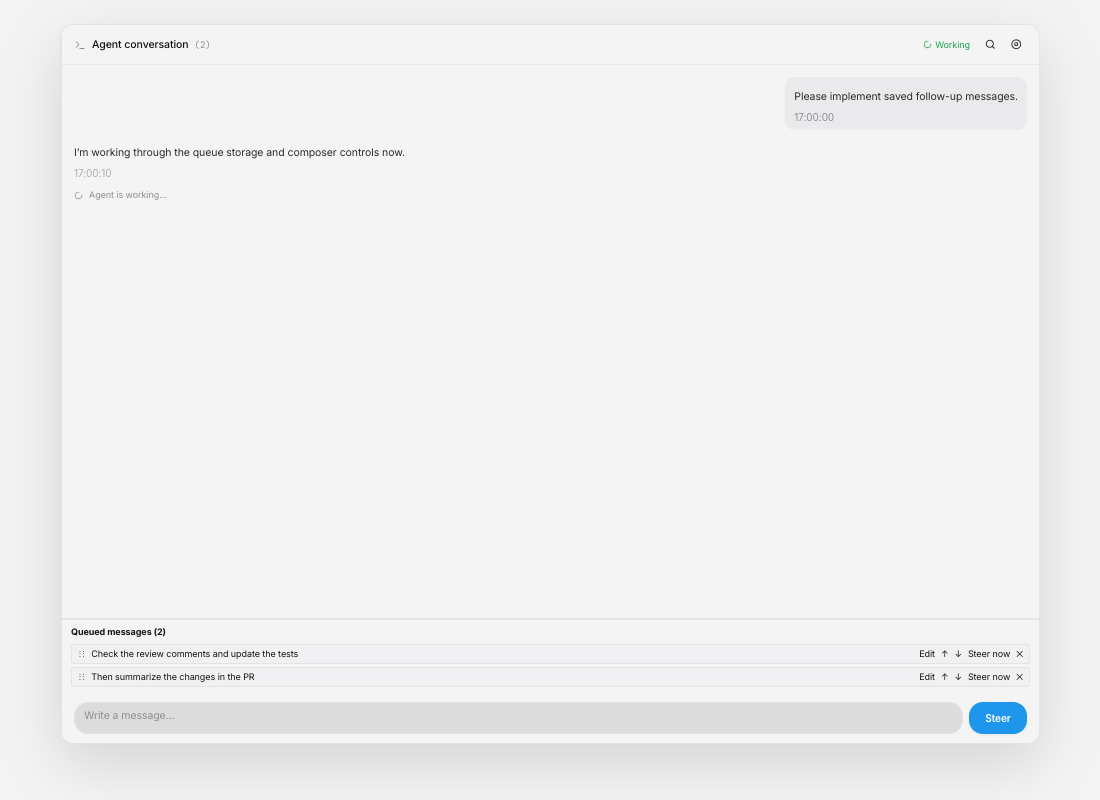
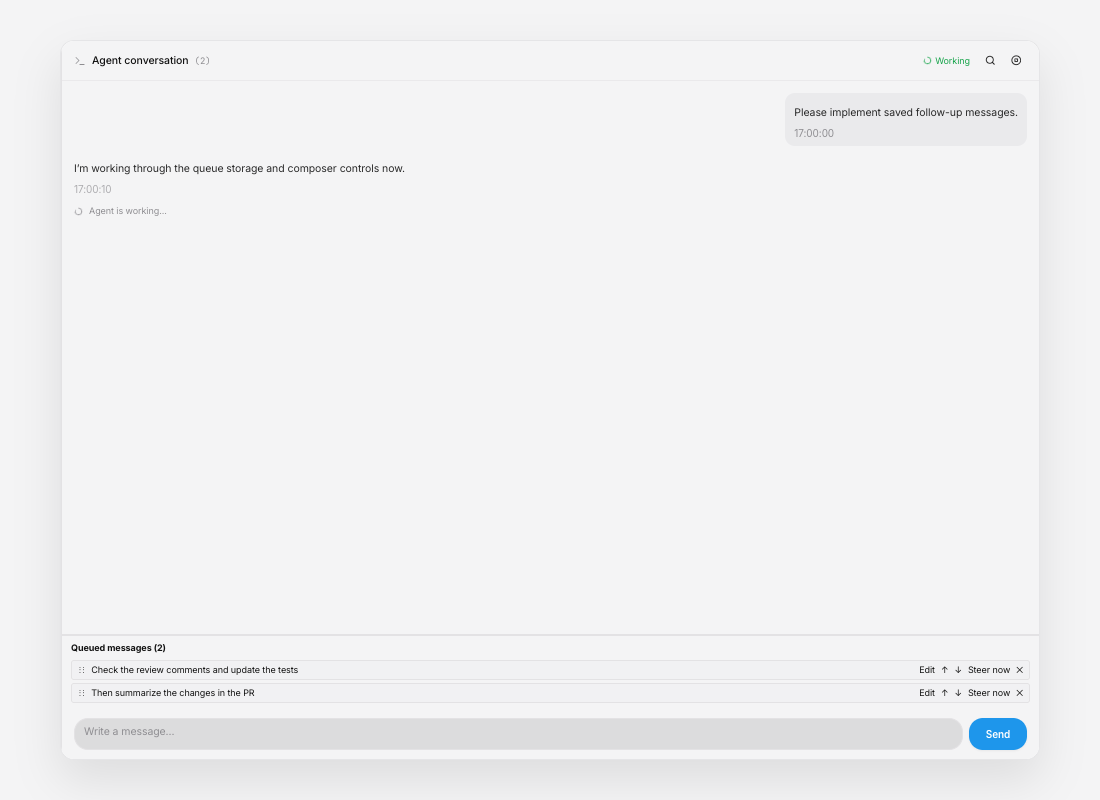
Make send now the default follow-up action

diff --git a/src/renderer/src/components/agents/AgentTranscriptPanel.tsx b/src/renderer/src/components/agents/AgentTranscriptPanel.tsx
@@ -15,7 +15,7 @@ import { SpeakMessageButton } from '@/components/voice/SpeakMessageButton'
 import { MASTERMIND_COMPOSER_KEY, registerComposer } from '@/lib/voice-dictation-target'
 import { dispatchShortcutFeedback } from '@/lib/keyboard-shortcuts'
 import { MessageQueueList } from './MessageQueueList'
-import { resolveFollowupAction, type MessageQueueSnapshot } from '@shared/message-queue'
+import { DEFAULT_FOLLOWUP_ACTION, resolveFollowupAction, type MessageQueueSnapshot } from '@shared/message-queue'
 
 const EMPTY_ARTIFACTS: Artifact[] = []
 
@@ -831,13 +831,13 @@ export function AgentTranscriptPanel({
   const [activeSearchResult, setActiveSearchResult] = useState(0)
   const [pendingAttachments, setPendingAttachments] = useState<ComposerAttachment[]>([])
   const [messageQueue, setMessageQueue] = useState<MessageQueueSnapshot>({ messages: [], paused: false })
-  const [followupDefault, setFollowupDefault] = useState<'steer' | 'queue'>('queue')
+  const [followupDefault, setFollowupDefault] = useState<'steer' | 'queue'>(DEFAULT_FOLLOWUP_ACTION)
   const [canSteer, setCanSteer] = useState(false)
   useEffect(() => {
     if (!taskId || !window.electronAPI?.messageQueue) return
     let active = true
     void messageQueueApi.list(taskId).then((value) => { if (active) setMessageQueue(value) })
-    void window.electronAPI.settings.get('message_queue_default').then((value) => { if (active) setFollowupDefault(value === 'steer' ? 'steer' : 'queue') })
+    void window.electronAPI.settings.get('message_queue_default').then((value) => { if (active) setFollowupDefault(value === 'queue' ? 'queue' : DEFAULT_FOLLOWUP_ACTION) })
     if (agentId) void window.electronAPI.agents.get(agentId).then((agent) => {
       if (active) setCanSteer(['codex', 'pi'].includes(agent?.config?.coding_agent || ''))
     })
@@ -1139,6 +1139,13 @@ export function AgentTranscriptPanel({
       default: return 'Idle'
     }
   }
+
+  const busySendLabel = canSteer && followupDefault === 'steer' ? 'Send' : 'Queue'
+  const busySendTitle = !canSteer
+    ? 'Queue message for after this turn'
+    : followupDefault === 'steer'
+      ? 'Send now · Cmd/Ctrl+Enter to queue'
+      : 'Queue for later · Cmd/Ctrl+Enter to send now'
 
   const handleSend = (alternate = false) => {
     const value = inputRef.current?.value.trim()
@@ -1512,8 +1519,8 @@ export function AgentTranscriptPanel({
                 <Paperclip className="h-4 w-4" />
               </Button>
             )}
-              <Button variant="default" size="icon" onClick={() => handleSend()} className={`h-[32px] shrink-0 rounded-lg ${status === SessionStatus.WORKING && !activeQuestionId ? 'min-w-[58px] px-2' : 'w-[32px]'}`} aria-label={status === SessionStatus.WORKING && !activeQuestionId ? (canSteer ? followupDefault : 'Queue') + ' message' : 'Send message'} title={status === SessionStatus.WORKING && !activeQuestionId ? (canSteer ? followupDefault : 'queue') + ' · Cmd/Ctrl+Enter for alternate' : 'Send message'}>
-                {status === SessionStatus.WORKING && !activeQuestionId ? <span className="text-[10px] font-semibold">{canSteer ? (followupDefault === 'steer' ? 'Steer' : 'Queue') : 'Queue'}</span> : <Send className="h-4 w-4" />}
+              <Button variant="default" size="icon" onClick={() => handleSend()} className={`h-[32px] shrink-0 rounded-lg ${status === SessionStatus.WORKING && !activeQuestionId ? 'min-w-[58px] px-2' : 'w-[32px]'}`} aria-label={status === SessionStatus.WORKING && !activeQuestionId ? (busySendLabel === 'Send' ? 'Send message now' : 'Queue message for later') : 'Send message'} title={status === SessionStatus.WORKING && !activeQuestionId ? busySendTitle : 'Send message'}>
+                {status === SessionStatus.WORKING && !activeQuestionId ? <span className="text-[10px] font-semibold">{busySendLabel}</span> : <Send className="h-4 w-4" />}
               </Button>
             </div>
           </div>

diff --git a/src/renderer/src/components/settings/tabs/GeneralSettings.tsx b/src/renderer/src/components/settings/tabs/GeneralSettings.tsx
@@ -11,6 +11,7 @@ import { OnboardingWizard } from '@/components/onboarding/OnboardingWizard'
 import { settingsApi, mobileApi, updaterApi, worktreeApi, onWorkspaceCleanupProgress } from '@/lib/ipc-client'
 import { MASTERMIND_PREWARM_SETTING } from '@/components/orchestrator/OrchestratorPanel'
 import { PushNotificationSettings } from './PushNotificationSettings'
+import { DEFAULT_FOLLOWUP_ACTION } from '@shared/message-queue'
 
 /** Human-readable summary of a cleanup run, or null when there is nothing to report. */
 function describeCleanupOutcome(cleaned: number | undefined, nodeModulesCleaned: number | undefined): string | null {
@@ -25,8 +26,8 @@ function describeCleanupOutcome(cleaned: number | undefined, nodeModulesCleaned:
 }
 
 export function GeneralSettings() {
-  const [messageQueueDefault, setMessageQueueDefault] = useState<'steer' | 'queue'>('queue')
-  useEffect(() => { void settingsApi.get('message_queue_default').then((value) => setMessageQueueDefault(value === 'steer' ? 'steer' : 'queue')) }, [])
+  const [messageQueueDefault, setMessageQueueDefault] = useState<'steer' | 'queue'>(DEFAULT_FOLLOWUP_ACTION)
+  useEffect(() => { void settingsApi.get('message_queue_default').then((value) => setMessageQueueDefault(value === 'queue' ? 'queue' : DEFAULT_FOLLOWUP_ACTION)) }, [])
   const [setupDialogOpen, setSetupDialogOpen] = useState(false)
   const [launchAtStartup, setLaunchAtStartup] = useState(false)
   const [notificationsEnabled, setNotificationsEnabled] = useState(false)
@@ -293,7 +294,7 @@ const [currentVersion, setCurrentVersion] = useState<string | null>(null)
             const action = event.target.value as 'steer' | 'queue'
             setMessageQueueDefault(action)
             void settingsApi.set('message_queue_default', action)
-          }}><option value="queue">Queue</option><option value="steer">Steer</option></select>
+          }}><option value="steer">Send now</option><option value="queue">Queue for later</option></select>
         </div>
         <div className="flex items-center justify-between py-2 border-b border-border">
           <div className="space-y-0.5">

diff --git a/src/mobile/pages/ConversationPage.tsx b/src/mobile/pages/ConversationPage.tsx
@@ -10,7 +10,7 @@ import { ArtifactCard } from '../components/ArtifactCard'
 import { ChatInput, type ChatInputAttachment } from '../components/ChatInput'
 import { MessageQueueList } from '@/components/agents/MessageQueueList'
 import { onEvent } from '../api/websocket'
-import { resolveFollowupAction, type MessageQueueSnapshot } from '@shared/message-queue'
+import { DEFAULT_FOLLOWUP_ACTION, resolveFollowupAction, type MessageQueueSnapshot } from '@shared/message-queue'
 import { useArtifactStore } from '../stores/artifact-store'
 import { cn } from '../lib/utils'
 import { captureAnalyticsEvent } from '@/lib/analytics'
@@ -136,7 +136,7 @@ export function ConversationPage({ taskId, onNavigate }: { taskId: string; onNav
   const [showAttachmentPicker, setShowAttachmentPicker] = useState(false)
   const [messageAttachments, setMessageAttachments] = useState<ChatInputAttachment[]>([])
   const [messageQueue, setMessageQueue] = useState<MessageQueueSnapshot>({ messages: [], paused: false })
-  const [followupDefault, setFollowupDefault] = useState<'steer' | 'queue'>('queue')
+  const [followupDefault, setFollowupDefault] = useState<'steer' | 'queue'>(DEFAULT_FOLLOWUP_ACTION)
   const [canSteer, setCanSteer] = useState(false)
   useEffect(() => {
     let active = true
@@ -857,7 +857,7 @@ export function ConversationPage({ taskId, onNavigate }: { taskId: string; onNav
         {isWorking && !isQuestion && !canSteer && <p className="px-3 text-xs text-muted-foreground">This agent cannot steer a running turn. Messages will be queued.</p>}
         <ChatInput
           onSend={handleSend}
-          sendLabel={isWorking && !isQuestion ? (canSteer ? (followupDefault === 'steer' ? 'Steer' : 'Queue') : 'Queue') : undefined}
+          sendLabel={isWorking && !isQuestion ? (canSteer ? (followupDefault === 'steer' ? 'Send' : 'Queue') : 'Queue') : undefined}
           disabled={!canSendInput}
           placeholder={placeholder}
           attachments={messageAttachments}

diff --git a/src/mobile/pages/SettingsPage.tsx b/src/mobile/pages/SettingsPage.tsx
@@ -3,6 +3,7 @@ import { api } from '../api/client'
 import type { Route } from '../App'
 import { SubscriptionUsageSection } from '../components/SubscriptionUsageSection'
 import { PushSettings } from '../components/PushSettings'
+import { DEFAULT_FOLLOWUP_ACTION } from '@shared/message-queue'
 
 interface TaskSource {
   id: string
@@ -26,7 +27,7 @@ interface SettingsPageProps {
 }
 
 export function SettingsPage({ onNavigate }: SettingsPageProps) {
-  const [messageQueueDefault, setMessageQueueDefault] = useState<'steer' | 'queue'>('queue')
+  const [messageQueueDefault, setMessageQueueDefault] = useState<'steer' | 'queue'>(DEFAULT_FOLLOWUP_ACTION)
   useEffect(() => { void api.messageQueue.default().then((value) => setMessageQueueDefault(value.action)) }, [])
   const [sources, setSources] = useState<TaskSource[]>([])
   const [plugins, setPlugins] = useState<PluginMeta[]>([])
@@ -118,7 +119,7 @@ export function SettingsPage({ onNavigate }: SettingsPageProps) {
             const action = event.target.value as 'steer' | 'queue'
             setMessageQueueDefault(action)
             void api.messageQueue.setDefault(action)
-          }}><option value="queue">Queue</option><option value="steer">Steer</option></select>
+          }}><option value="steer">Send now</option><option value="queue">Queue for later</option></select>
         </div>
 
         {/* Task Sources Section */}

diff --git a/src/main/mobile-api-server.ts b/src/main/mobile-api-server.ts
@@ -22,6 +22,7 @@ import { listTaskArtifactEntries, readTaskArtifact } from './artifacts'
 import type { Artifact, ArtifactFileEntry } from '../shared/artifacts'
 import { MOBILE_VOICE_CAPABILITIES } from '../shared/voice'
 import { TaskStatus } from '../shared/constants'
+import { DEFAULT_FOLLOWUP_ACTION } from '../shared/message-queue'
 import { sanitizeUsageSummaryQuery } from './usage/usage-query'
 import { guardStream } from './child-stream-guards'
 import type { ArtifactMcpCall } from '../shared/artifact-mcp'
@@ -338,7 +339,7 @@ async function handleApiRoute(req: IncomingMessage, res: ServerResponse, pathnam
 async function routeGet(pathname: string, url: URL, req?: IncomingMessage): Promise<unknown> {
   const db = dbRef!
 
-  if (pathname === '/api/message-queue/default') return { action: db.getSetting('message_queue_default') === 'steer' ? 'steer' : 'queue' }
+  if (pathname === '/api/message-queue/default') return { action: db.getSetting('message_queue_default') === 'queue' ? 'queue' : DEFAULT_FOLLOWUP_ACTION }
   const queueGetMatch = pathname.match(/^\/api\/tasks\/([^/]+)\/message-queue$/)
   if (queueGetMatch) return agentRef!.getMessageQueue(queueGetMatch[1])
 

diff --git a/src/shared/message-queue.test.ts b/src/shared/message-queue.test.ts
@@ -1,7 +1,11 @@
 import { describe, expect, it } from 'vitest'
-import { resolveFollowupAction } from './message-queue'
+import { DEFAULT_FOLLOWUP_ACTION, resolveFollowupAction } from './message-queue'
 
 describe('resolveFollowupAction', () => {
+  it('sends now by default and queues with the alternate shortcut', () => {
+    expect(resolveFollowupAction(DEFAULT_FOLLOWUP_ACTION, true)).toBe('steer')
+    expect(resolveFollowupAction(DEFAULT_FOLLOWUP_ACTION, true, true)).toBe('queue')
+  })
   it('uses the saved default and reverses it for the modifier shortcut', () => {
     expect(resolveFollowupAction('queue', true)).toBe('queue')
     expect(resolveFollowupAction('queue', true, true)).toBe('steer')

diff --git a/src/shared/message-queue.ts b/src/shared/message-queue.ts
@@ -19,6 +19,8 @@ export interface MessageQueueSnapshot {
   paused: boolean
 }
 
+export const DEFAULT_FOLLOWUP_ACTION = 'steer' as const
+
 export function resolveFollowupAction(defaultAction: 'steer' | 'queue', canSteer: boolean, alternate = false): 'steer' | 'queue' {
   if (!canSteer) return 'queue'
   return alternate ? (defaultAction === 'queue' ? 'steer' : 'queue') : defaultAction
